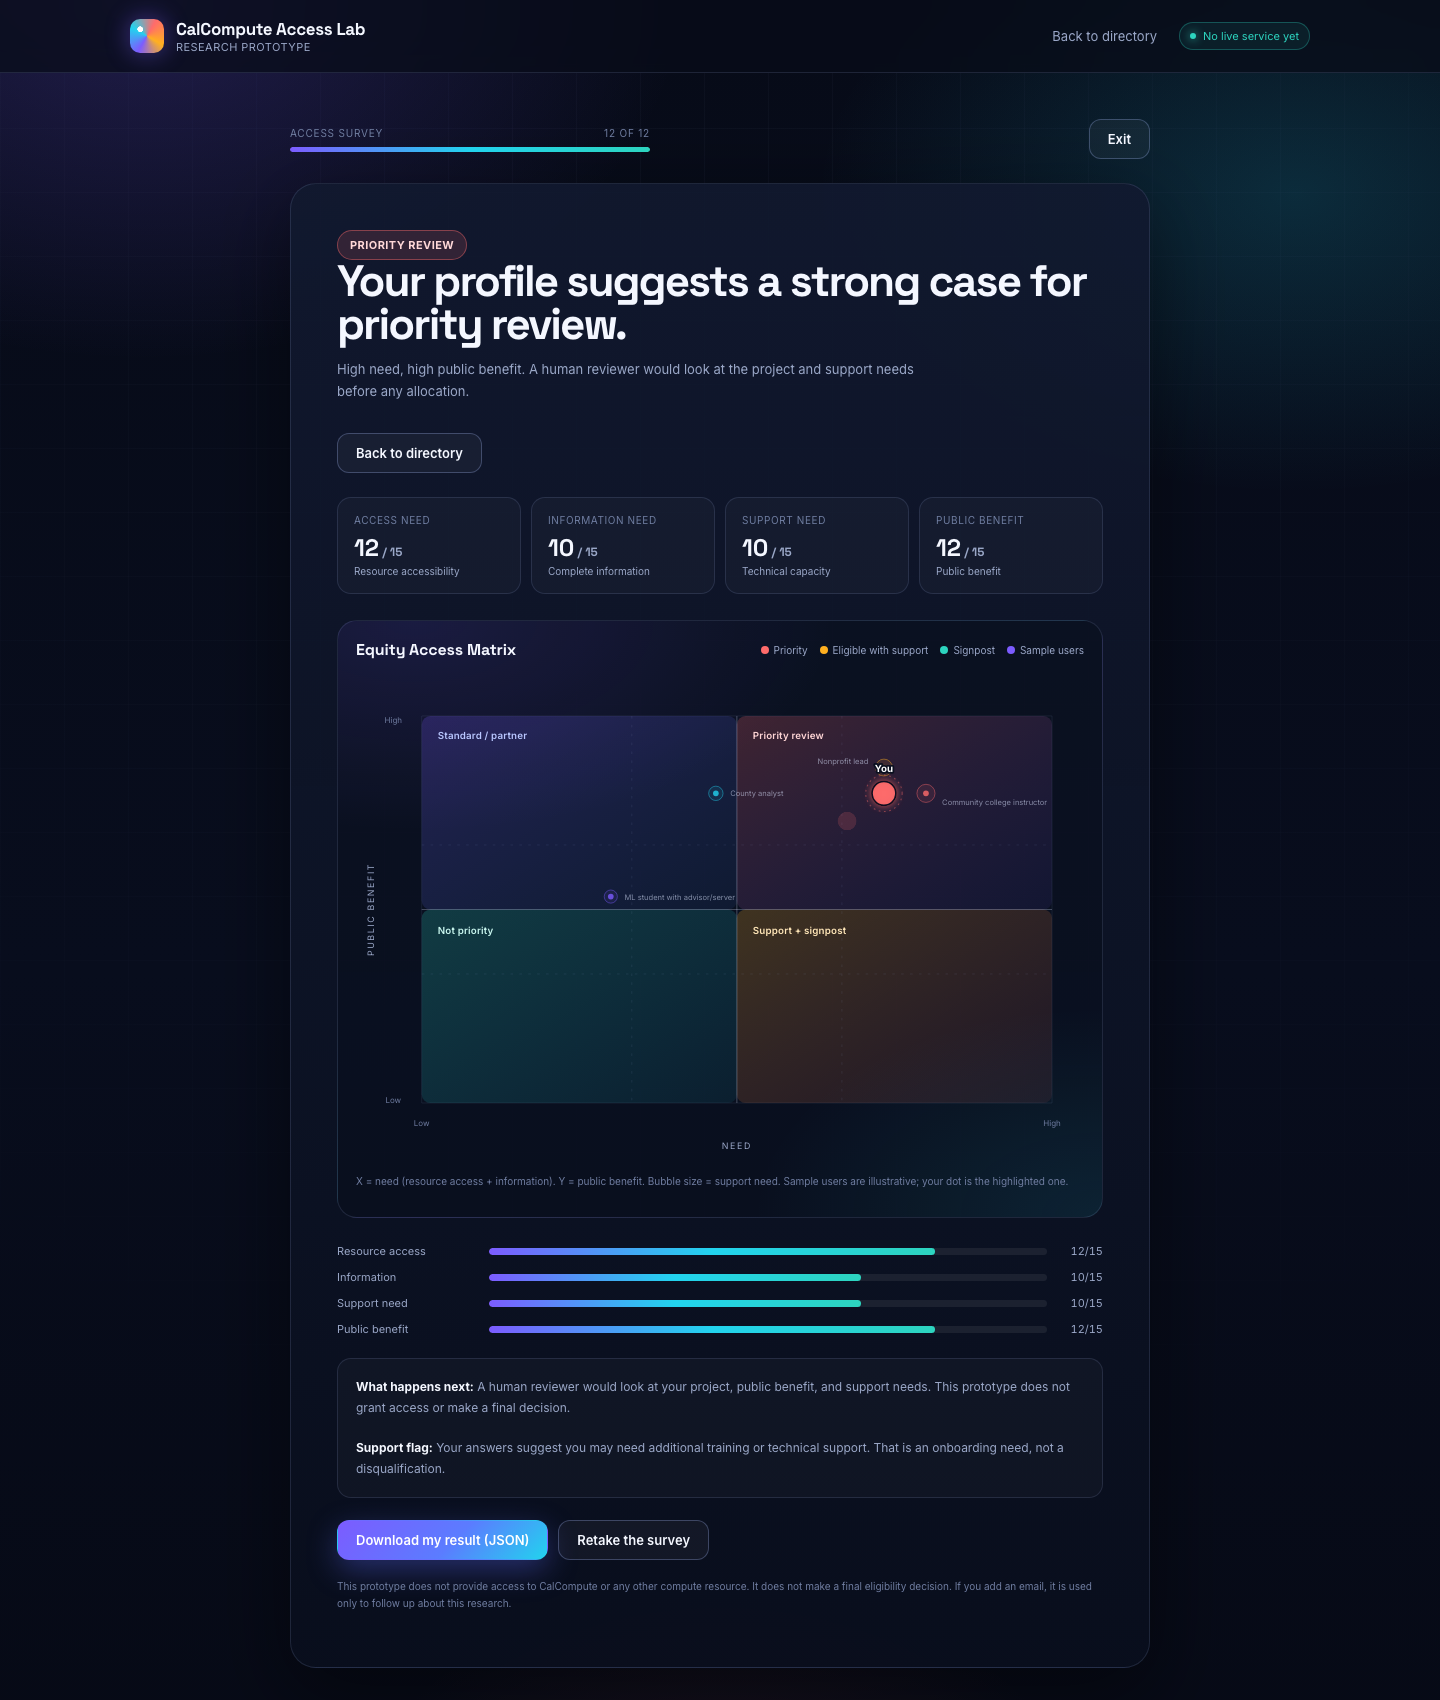
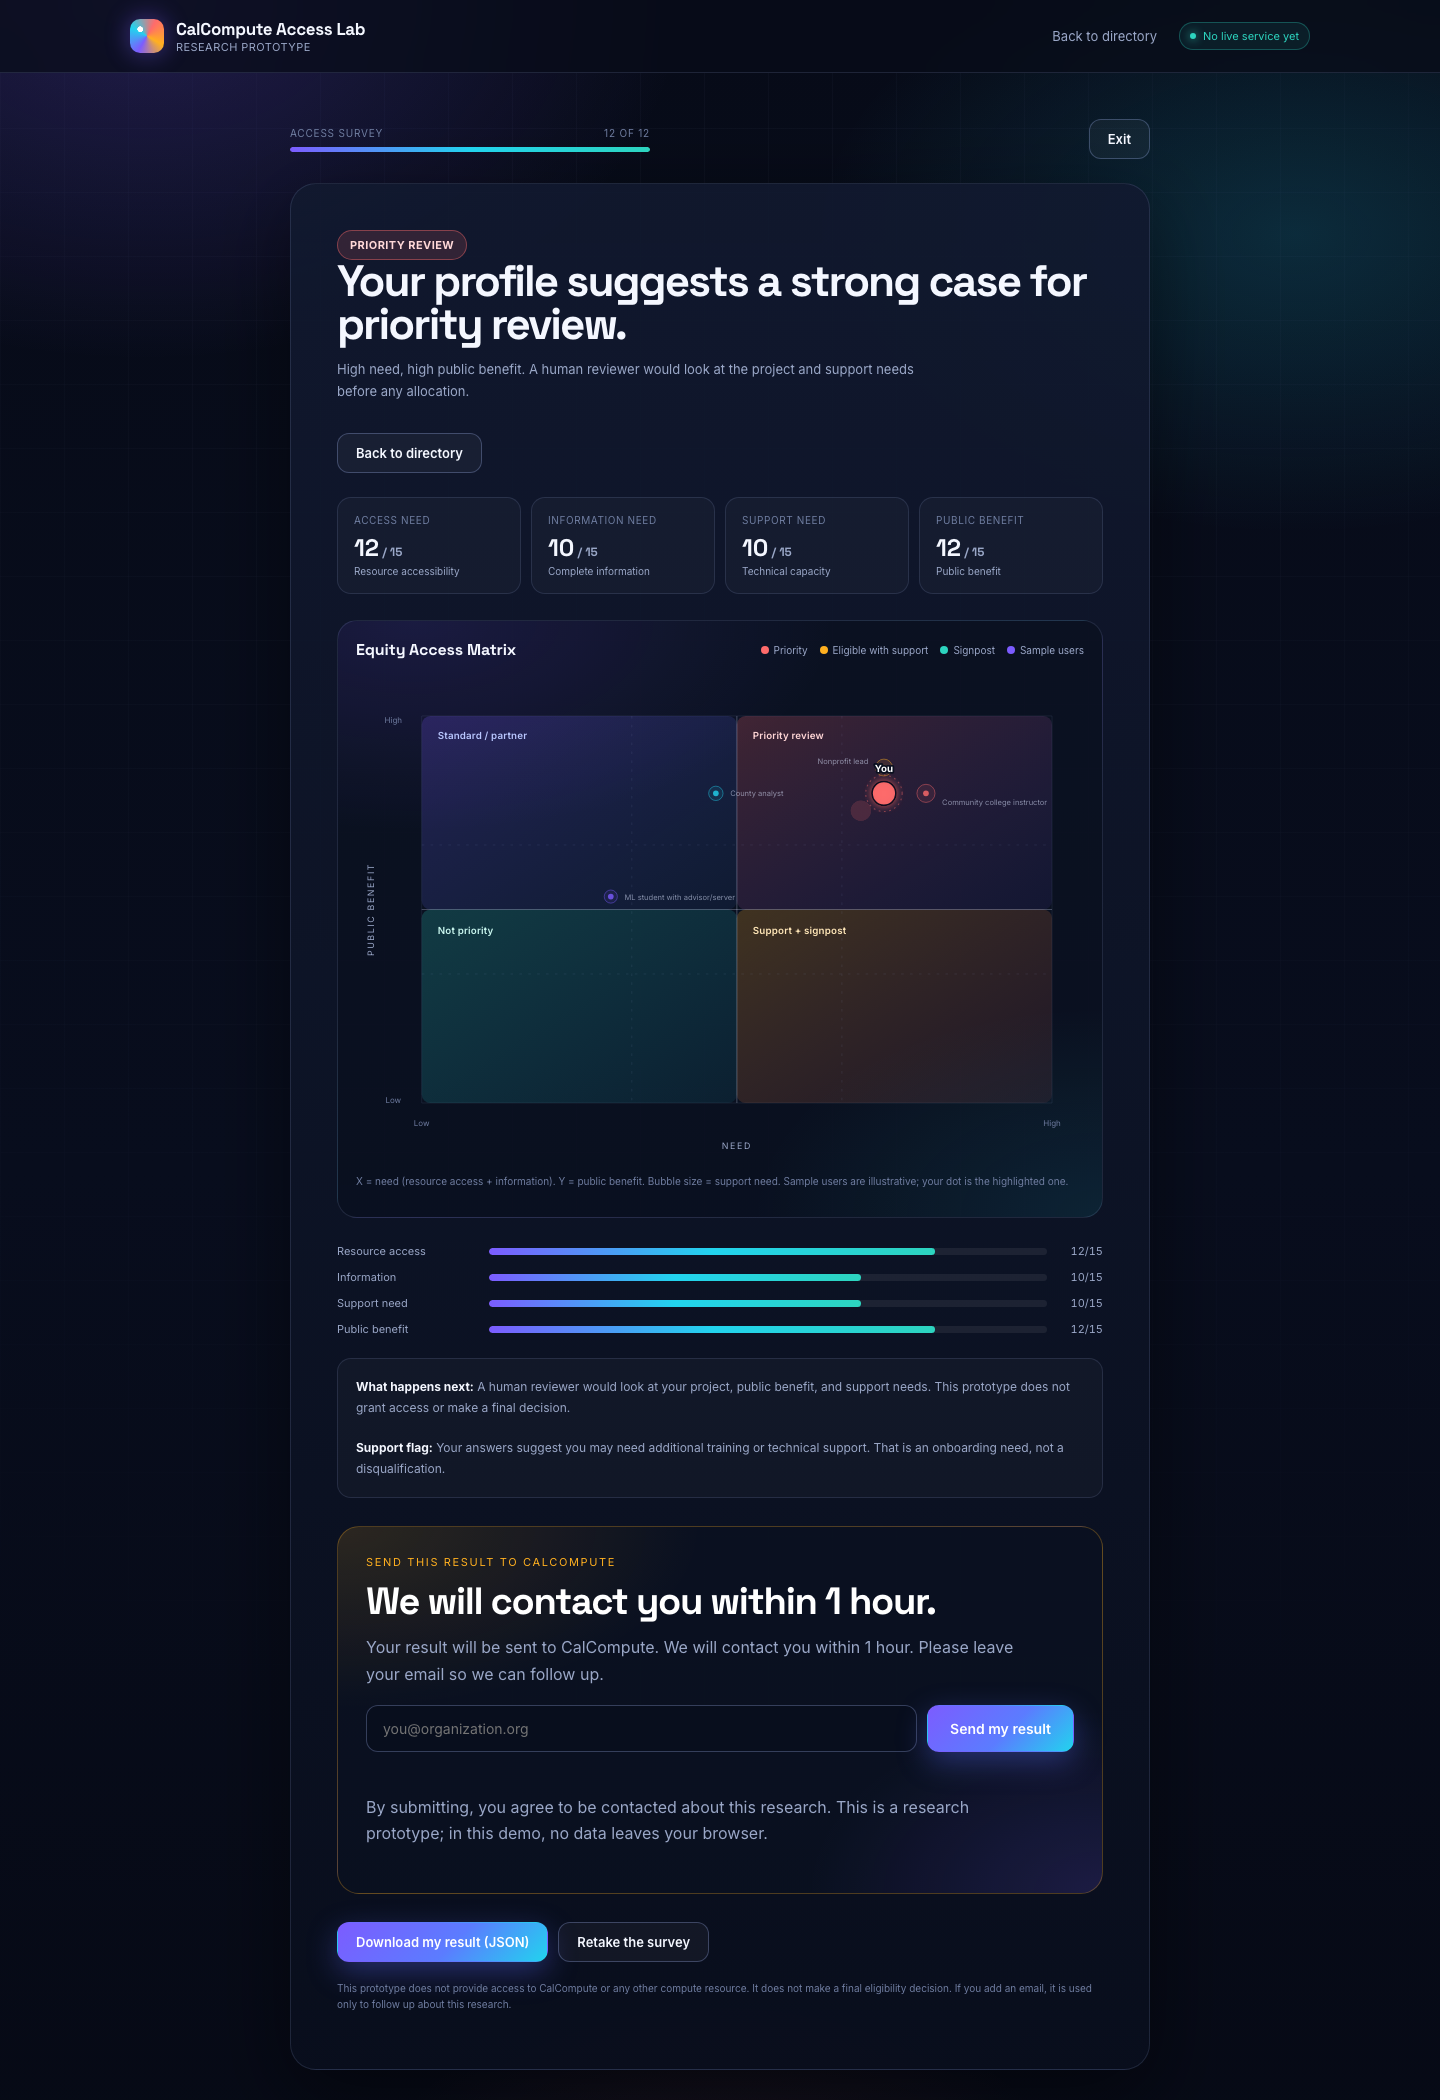
Add CalCompute contact capture with 1-hour follow-up message

diff --git a/assets/styles.css b/assets/styles.css
@@ -972,3 +972,101 @@ body.embed .popup {
   max-height: calc(100vh - 28px);
   overflow: auto;
 }
+
+/* Contact / send result box */
+.contact-box {
+  margin: 28px 0;
+  padding: 28px;
+  border-radius: 22px;
+  border: 1px solid rgba(255, 176, 32, 0.28);
+  background:
+    radial-gradient(520px 260px at 0% 0%, rgba(255, 176, 32, 0.14), transparent 70%),
+    radial-gradient(420px 260px at 100% 100%, rgba(124, 92, 255, 0.16), transparent 70%),
+    rgba(10, 16, 32, 0.72);
+}
+
+.contact-kicker {
+  font-size: 11px;
+  letter-spacing: 0.15em;
+  text-transform: uppercase;
+  color: var(--amber);
+  margin-bottom: 12px;
+}
+
+.contact-box h3 {
+  font-family: "Space Grotesk", sans-serif;
+  font-size: clamp(28px, 3.6vw, 38px);
+  line-height: 1.08;
+  letter-spacing: -0.035em;
+  margin: 0 0 12px;
+  color: #ffffff;
+}
+
+.contact-box p {
+  font-size: 16px;
+  line-height: 1.65;
+  color: var(--muted);
+  margin: 0 0 18px;
+  max-width: 680px;
+}
+
+.contact-form {
+  display: flex;
+  flex-wrap: wrap;
+  gap: 10px;
+}
+
+.contact-form input {
+  flex: 1;
+  min-width: 260px;
+  border: 1px solid var(--stroke-strong);
+  background: rgba(8, 13, 28, 0.78);
+  color: var(--text);
+  border-radius: 12px;
+  padding: 14px 16px;
+  font-family: inherit;
+  font-size: 14px;
+  outline: none;
+}
+
+.contact-form input:focus { border-color: rgba(255, 176, 32, 0.62); }
+
+.contact-form .btn {
+  padding: 14px 22px;
+  font-size: 14px;
+}
+
+.contact-status {
+  min-height: 24px;
+  margin: 14px 0 0;
+  font-size: 14px;
+  line-height: 1.55;
+  color: var(--mint);
+}
+
+.contact-status.error { color: #ffb8b8; }
+
+.contact-fine {
+  font-size: 10px;
+  line-height: 1.6;
+  color: var(--muted-2);
+  margin: 10px 0 0;
+}
+
+.sr-only {
+  position: absolute;
+  width: 1px;
+  height: 1px;
+  padding: 0;
+  margin: -1px;
+  overflow: hidden;
+  clip: rect(0, 0, 0, 0);
+  white-space: nowrap;
+  border: 0;
+}
+
+@media (max-width: 640px) {
+  .contact-box { padding: 22px 18px; }
+  .contact-box h3 { font-size: 28px; }
+  .contact-box p { font-size: 15px; }
+}

diff --git a/assets/survey.js b/assets/survey.js
@@ -97,6 +97,10 @@
   const matrixSvg = document.getElementById("matrix");
   const downloadBtn = document.getElementById("downloadBtn");
   const retakeBtn = document.getElementById("retakeBtn");
+  const contactForm = document.getElementById("contactForm");
+  const contactEmail = document.getElementById("contactEmail");
+  const contactStatus = document.getElementById("contactStatus");
+  const contactSubmit = document.getElementById("contactSubmit");
 
   let lastPayload = null;
 
@@ -223,6 +227,7 @@
 
     lastPayload = {
       timestamp: new Date().toISOString(),
+      email: "",
       scores: {
         resourceAccess: access,
         information: info,
@@ -260,6 +265,12 @@
     result.classList.remove("show");
     form.style.display = "none";
     intro.style.display = "block";
+    if (contactEmail) contactEmail.disabled = false;
+    if (contactSubmit) contactSubmit.disabled = false;
+    if (contactStatus) {
+      contactStatus.textContent = "";
+      contactStatus.classList.remove("error");
+    }
     window.scrollTo({ top: 0, behavior: "smooth" });
   }
 
@@ -304,6 +315,24 @@
     a.click();
     document.body.removeChild(a);
     URL.revokeObjectURL(url);
+  });
+
+  contactForm && contactForm.addEventListener("submit", function (event) {
+    event.preventDefault();
+    if (!lastPayload) return;
+    const email = (contactEmail.value || "").trim();
+    const valid = /^[^\s@]+@[^\s@]+\.[^\s@]+$/.test(email);
+    if (!valid) {
+      contactStatus.textContent = "Please enter a valid email address.";
+      contactStatus.classList.add("error");
+      contactEmail.focus();
+      return;
+    }
+    lastPayload.email = email;
+    contactStatus.classList.remove("error");
+    contactStatus.textContent = "Thank you. Your result has been sent to CalCompute. We will contact you within 1 hour.";
+    contactEmail.disabled = true;
+    contactSubmit.disabled = true;
   });
 
   retakeBtn && retakeBtn.addEventListener("click", reset);

diff --git a/survey/index.html b/survey/index.html
@@ -236,6 +236,25 @@
 
       <div class="next-box" id="nextBox"></div>
 
+      <div class="contact-box">
+        <div class="contact-kicker">Send this result to CalCompute</div>
+        <h3>We will contact you within 1 hour.</h3>
+        <p>
+          Your result will be sent to CalCompute. We will contact you within 1 hour.
+          Please leave your email so we can follow up.
+        </p>
+        <form class="contact-form" id="contactForm" novalidate>
+          <label class="sr-only" for="contactEmail">Email address</label>
+          <input type="email" id="contactEmail" name="email" placeholder="you@organization.org" autocomplete="email" required>
+          <button class="btn btn-primary" type="submit" id="contactSubmit">Send my result</button>
+        </form>
+        <p class="contact-status" id="contactStatus" role="status" aria-live="polite"></p>
+        <p class="contact-fine">
+          By submitting, you agree to be contacted about this research. This is a research prototype;
+          in this demo, no data leaves your browser.
+        </p>
+      </div>
+
       <div class="result-actions">
         <button class="btn btn-primary" type="button" id="downloadBtn">Download my result (JSON)</button>
         <button class="btn btn-ghost" type="button" id="retakeBtn">Retake the survey</button>

diff --git a/build_miro_frame.py b/build_miro_frame.py
@@ -1,0 +1,44 @@
+from PIL import Image, ImageDraw, ImageFont
+
+W, H = 1600, 1000
+img = Image.new("RGBA", (W, H), (7, 11, 24, 255))
+for y in range(H):
+    r = int(7 + 10 * (y / H)); g = int(11 + 6 * (y / H)); b = int(24 + 18 * (y / H))
+    ImageDraw.Draw(img).line([(0, y), (W, y)], fill=(r, g, b, 255))
+for cx, cy, rad, color in [(220, 120, 420, (124, 92, 255)), (1400, 180, 420, (34, 211, 238)), (1200, 900, 380, (255, 107, 107))]:
+    layer = Image.new("RGBA", (W, H), (0, 0, 0, 0)); ld = ImageDraw.Draw(layer)
+    for i in range(14, 0, -1):
+        rr = rad * i / 14; a = int(28 * (1 - i / 14) ** 1.3)
+        ld.ellipse([cx - rr, cy - rr, cx + rr, cy + rr], fill=color + (a,))
+    img = Image.alpha_composite(img, layer)
+d = ImageDraw.Draw(img)
+
+def font(size, bold=False):
+    for p in (["/System/Library/Fonts/Supplemental/Arial Bold.ttf" if bold else "/System/Library/Fonts/Supplemental/Arial.ttf", "/System/Library/Fonts/Helvetica.ttc"]):
+        try: return ImageFont.truetype(p, size)
+        except Exception: pass
+    return ImageFont.load_default()
+
+d.text((50, 42), "CalCompute Access Survey", font=font(38, True), fill=(244, 247, 255))
+d.text((50, 92), "A research prototype: from “didn’t find a resource” to a first result", font=font(18), fill=(154, 167, 199))
+d.text((50, 124), "Popup → survey → equity access matrix → send result", font=font(14), fill=(34, 211, 238))
+
+def card(path, x, y, w, h, label):
+    im = Image.open(path).convert("RGB"); im.thumbnail((w - 16, h - 52)); cw, ch = im.size
+    d.rounded_rectangle([x, y, x + w, y + h], radius=16, fill=(16, 23, 43, 235), outline=(120, 145, 210, 90), width=1)
+    img.paste(im, (x + (w - cw) // 2, y + 34 + (h - 52 - ch) // 2))
+    d.text((x + 18, y + 10), label, font=font(13, True), fill=(210, 220, 245))
+
+card("miro/01-home.png", 40, 180, 500, 690, "01  Popup")
+card("miro/03-survey.png", 560, 180, 430, 690, "02  Survey")
+card("miro/04-result-matrix.png", 1010, 180, 550, 690, "03  Result + Matrix + Contact")
+
+qr = Image.open("miro/qr-code.png").convert("RGB").resize((150, 150))
+img.paste(qr, (1400, 820))
+d.text((1230, 830), "Scan to open", font=font(16, True), fill=(244, 247, 255))
+d.text((1230, 855), "durismu.github.io/", font=font(13), fill=(154, 167, 199))
+d.text((1230, 874), "calcompute-access-demo", font=font(13), fill=(154, 167, 199))
+d.text((50, 905), "Research prototype · no live CalCompute service · not a final eligibility decision", font=font(12), fill=(111, 125, 160))
+d.text((50, 928), "Universal eligibility does not necessarily translate into equitable access.", font=font(16, True), fill=(255, 176, 32))
+img.convert("RGB").save("miro/00-miro-frame.png", quality=95)
+print("saved")
